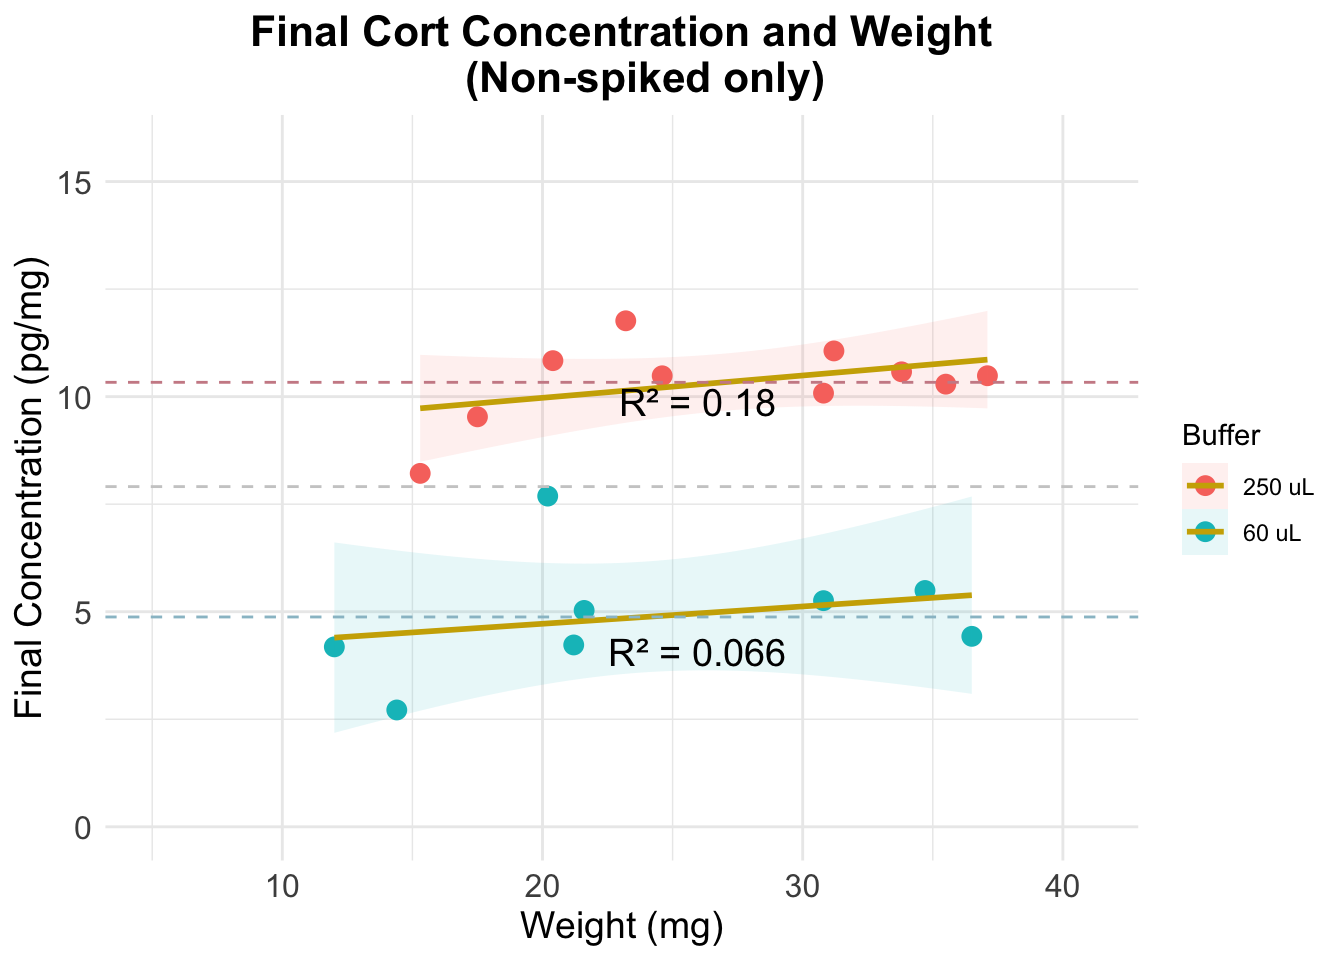
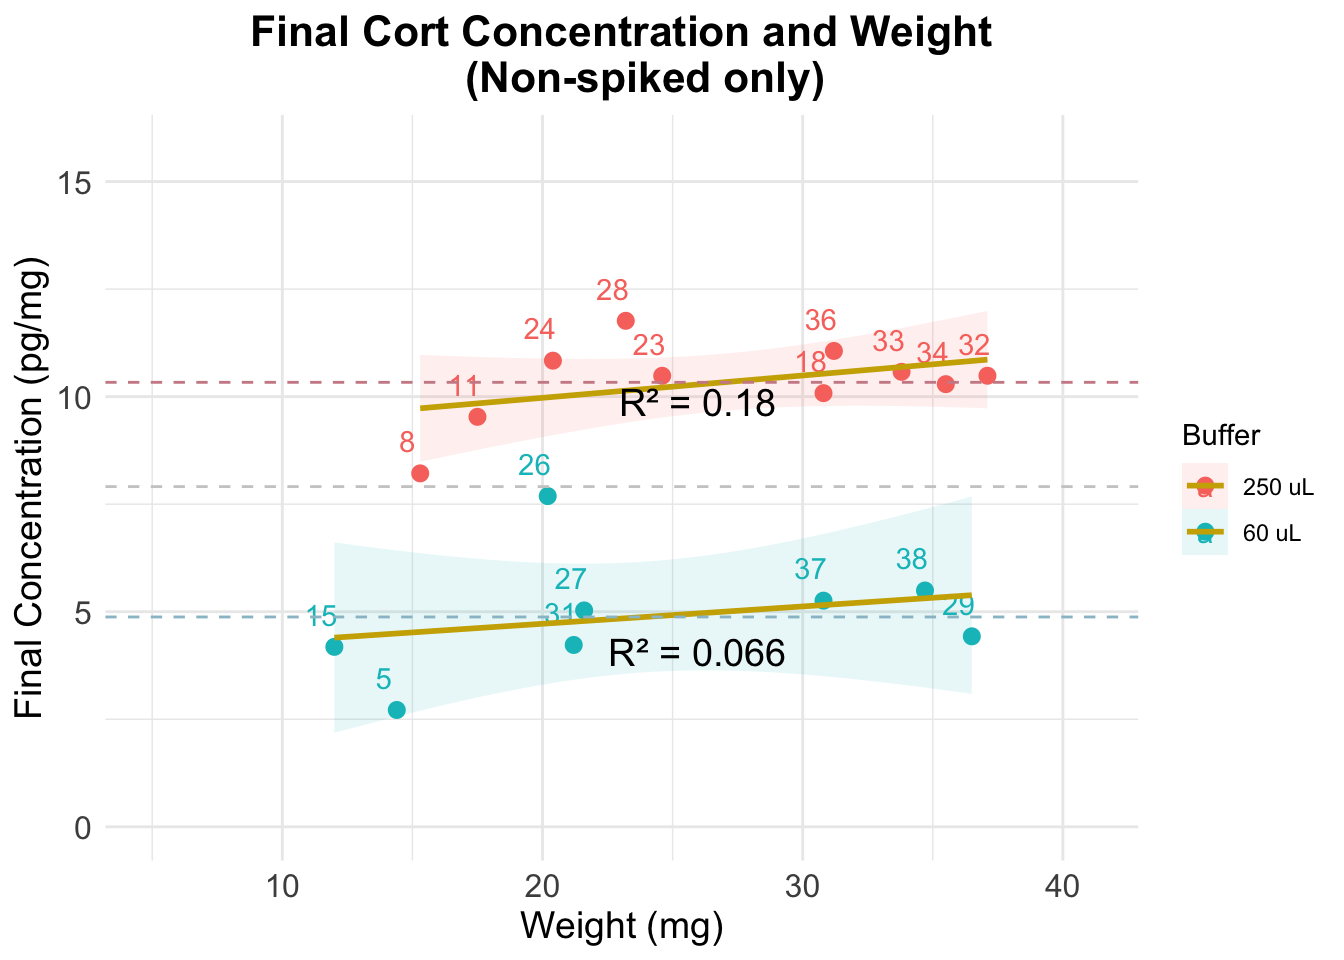
asda

diff --git a/docs/ELISA_computation.html b/docs/ELISA_computation.html
@@ -361,7 +361,7 @@ div.tocify {
 <p>
 <button type="button" class="btn btn-default btn-workflowr btn-workflowr-report" data-toggle="collapse" data-target="#workflowr-report">
 <span class="glyphicon glyphicon-list" aria-hidden="true"></span>
-workflowr <span class="glyphicon glyphicon-ok text-success"
+workflowr <span class="glyphicon glyphicon-exclamation-sign text-danger"
 aria-hidden="true"></span>
 </button>
 </p>
@@ -372,8 +372,8 @@ aria-hidden="true"></span>
 </li>
 <li>
 <a data-toggle="tab" href="#checks"> Checks <span
-class="glyphicon glyphicon-ok text-success" aria-hidden="true"></span>
-</a>
+class="glyphicon glyphicon-exclamation-sign text-danger"
+aria-hidden="true"></span> </a>
 </li>
 <li>
 <a data-toggle="tab" href="#versions">Past versions</a>
@@ -382,13 +382,13 @@ class="glyphicon glyphicon-ok text-success" aria-hidden="true"></span>
 <div class="tab-content">
 <div id="summary" class="tab-pane fade in active">
 <p>
-<strong>Last updated:</strong> 2025-01-30
+<strong>Last updated:</strong> 2025-01-31
 </p>
 <p>
 <strong>Checks:</strong> <span
-class="glyphicon glyphicon-ok text-success" aria-hidden="true"></span> 7
+class="glyphicon glyphicon-ok text-success" aria-hidden="true"></span> 6
 <span class="glyphicon glyphicon-exclamation-sign text-danger"
-aria-hidden="true"></span> 0
+aria-hidden="true"></span> 1
 </p>
 <p>
 <strong>Knit directory:</strong>
@@ -412,18 +412,21 @@ versions</em> tab lists the development history.
 <div class="panel panel-default">
 <div class="panel-heading">
 <p class="panel-title">
-<a data-toggle="collapse" data-parent="#workflowr-checks" href="#strongRMarkdownfilestronguptodate">
-<span class="glyphicon glyphicon-ok text-success"
-aria-hidden="true"></span> <strong>R Markdown file:</strong> up-to-date
-</a>
+<a data-toggle="collapse" data-parent="#workflowr-checks" href="#strongRMarkdownfilestronguncommittedchanges">
+<span class="glyphicon glyphicon-exclamation-sign text-danger"
+aria-hidden="true"></span> <strong>R Markdown file:</strong> uncommitted
+changes </a>
 </p>
 </div>
-<div id="strongRMarkdownfilestronguptodate"
+<div id="strongRMarkdownfilestronguncommittedchanges"
 class="panel-collapse collapse">
 <div class="panel-body">
-<p>Great! Since the R Markdown file has been committed to the Git
-repository, you know the exact version of the code that produced these
-results.</p>
+<p>The R Markdown file has unstaged changes. To know which version of
+the R Markdown file created these results, you’ll want to first commit
+it to the Git repo. If you’re still working on the analysis, you can
+ignore this warning. When you’re finished, you can run
+<code>wflow_publish</code> to commit the R Markdown file and build the
+HTML.</p>
 </div>
 </div>
 </div>
@@ -514,15 +517,15 @@ project makes it easier to run your code on other machines.</p>
 <div class="panel panel-default">
 <div class="panel-heading">
 <p class="panel-title">
-<a data-toggle="collapse" data-parent="#workflowr-checks" href="#strongRepositoryversionstrongahrefhttpsgithubcomPalomaContreras25HairCortEvaluationNist2020treed314be6a7b0b17a38d8aa175863e009ed6dc1aa9targetblankd314be6a">
+<a data-toggle="collapse" data-parent="#workflowr-checks" href="#strongRepositoryversionstrongahrefhttpsgithubcomPalomaContreras25HairCortEvaluationNist2020tree2a314433d8e6832b9e24404d5724fe8884ab106ftargetblank2a31443a">
 <span class="glyphicon glyphicon-ok text-success"
 aria-hidden="true"></span> <strong>Repository version:</strong>
-<a href="https://github.com/PalomaContreras25/HairCort-Evaluation-Nist2020/tree/d314be6a7b0b17a38d8aa175863e009ed6dc1aa9" target="_blank">d314be6</a>
+<a href="https://github.com/PalomaContreras25/HairCort-Evaluation-Nist2020/tree/2a314433d8e6832b9e24404d5724fe8884ab106f" target="_blank">2a31443</a>
 </a>
 </p>
 </div>
 <div
[2 lines of base64/hex data omitted]
 class="panel-collapse collapse">
 <div class="panel-body">
 <p>
@@ -532,7 +535,7 @@ reproducibility.
 </p>
 <p>
 The results in this page were generated with repository version
-<a href="https://github.com/PalomaContreras25/HairCort-Evaluation-Nist2020/tree/d314be6a7b0b17a38d8aa175863e009ed6dc1aa9" target="_blank">d314be6</a>.
+<a href="https://github.com/PalomaContreras25/HairCort-Evaluation-Nist2020/tree/2a314433d8e6832b9e24404d5724fe8884ab106f" target="_blank">2a31443</a>.
 See the <em>Past versions</em> tab to see a history of the changes made
 to the R Markdown and HTML files.
 </p>
@@ -552,8 +555,8 @@ Ignored files:
     Ignored:    .Rhistory
     Ignored:    data/.DS_Store
 
-Untracked files:
-    Untracked:  data/Standard_data.csv
+Unstaged changes:
+    Modified:   analysis/ELISA_computation.Rmd
 
 </code></pre>
 <p>
@@ -598,6 +601,23 @@ Message
 </tr>
 </thead>
 <tbody>
+<tr>
+<td>
+html
+</td>
+<td>
+<a href="https://rawcdn.githack.com/PalomaContreras25/HairCort-Evaluation-Nist2020/e9a8f2cf7621bd52291b598a4f04d45b2ae11c86/docs/ELISA_computation.html" target="_blank">e9a8f2c</a>
+</td>
+<td>
+Paloma
+</td>
+<td>
+2025-01-30
+</td>
+<td>
+update metric units
+</td>
+</tr>
 <tr>
 <td>
 Rmd
@@ -2326,7 +2346,8 @@ ggplot(data2, aes(y = Final_conc_pg.mg,
                   x = Weight_mg, 
                   color = Buffer, 
                   fill = Buffer)) +
-  geom_point(size = 3) +  
+  geom_point(size = 2.5) +  
+  geom_text(label = c(data2$Sample), nudge_y = 0.75, nudge_x = -0.5) +
   geom_smooth(method = &quot;lm&quot;, 
               color = &quot;gold3&quot;, 
               se = TRUE,
@@ -2457,7 +2478,7 @@ Session information
 <pre class="r"><code>sessionInfo()</code></pre>
 <pre><code>R version 4.4.2 (2024-10-31)
 Platform: aarch64-apple-darwin20
-Running under: macOS Sequoia 15.2
+Running under: macOS Sequoia 15.3
 
 Matrix products: default
 BLAS:   /Library/Frameworks/R.framework/Versions/4.4-arm64/Resources/lib/libRblas.0.dylib 
